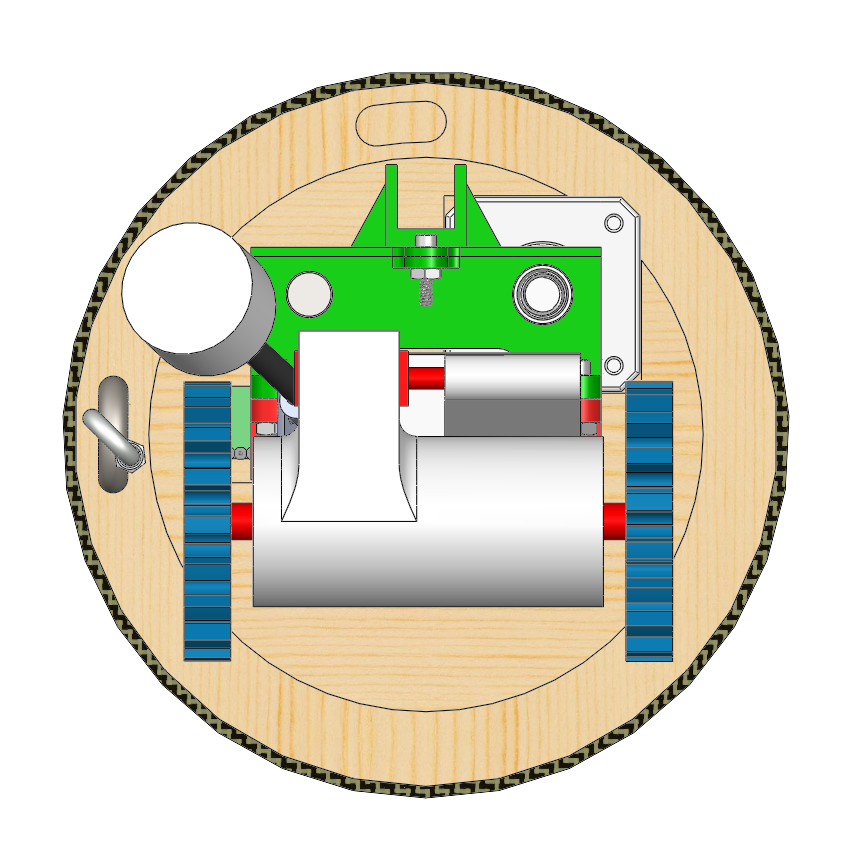
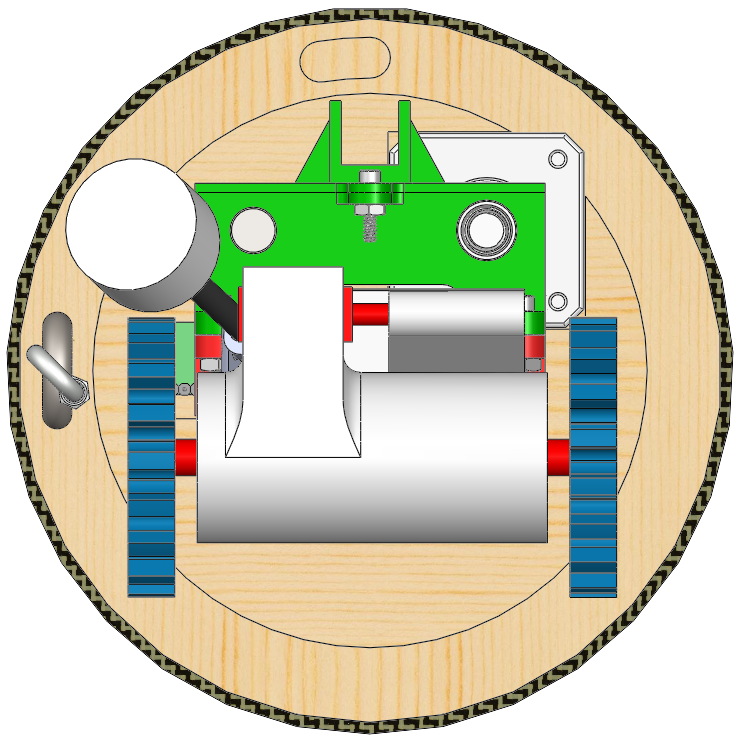
1

diff --git a/rocket_project_2020.html b/rocket_project_2020.html
@@ -93,7 +93,7 @@
 		<p>As the payloads lead, I was responsible for designing, manufacturing, and mechanically testing the payload and its associated deployment method. This meant a lot of SolidWorks, 3D printing, CNC milling and modifying commercial-off-the-shelf (COTS) components. Each dimension was iteratively modified during the R&D phase of manufacturing. As the only member of the payloads team, I spent almost all my time in the machine shop, either starting 3D prints or CNC milling wooden components.</p>
 		<div class="w3-row">
 			<div class="w3-col l12 m12 s12">
-				<img class="image-gal" style="max-width: 600px;" src="pictures/rocket20/Entire Assembly.PNG">
+				<img class="image-gal" style="max-width: 550px;" src="pictures/rocket20/Entire Assembly.PNG">
 			</div>	
 		</div>
 		<p>The payload design features two functional components:</p>
@@ -105,14 +105,14 @@
 		<h3>Rover Ejection Assembly (REA)</h3>
 		<div class="w3-row">
 			<div class="w3-col l12 m12 s12">
-				<img class="image-gal" style="max-width: 700px;" src="pictures/rocket20/Ejection System Assembly.PNG">
+				<img class="image-gal" style="max-width: 650px;" src="pictures/rocket20/Ejection System Assembly.PNG">
 			</div>	
 		</div>
 		<p>Using the above figure as reference, the leftmost stepper motor (1) is attached to a bulkhead (3) using epoxy. This stepper motor connects to the entire assembly to rotate the payload. Attaching the motor to the entire assembly makes the motor a load bearing component. A large moment will be induced on the stepper motor from the protruding rods and payload resting on the rods. To prevent this, an additional aluminum alloy bearing ring (4) will be used. The bearing ring will support the entire assembly so that the leftmost stepper motor will only rotate the assembly, not support it. All load bearing forces will be applied to the bearing ring. Since the purchased bearing ring is flat, additional 3D printed rings (2 & 6) are placed to offset one rotating ring from the other. These standoff rings interface with the bearing ring and the bulkhead or circular block holder (7). A circular tube (5) will fit around the shaft of the stepper motor and will be epoxied into the large circular block holder (7). The circular block holder acts as a rotating bulkhead for which to attach the rods and additional stepper motor onto. Cutouts for another stepper motor, a gyroscope/accelerometer module, and a steel rod are provided. The unthreaded rod (9) and stepper motor (1) will be epoxied into the designated hole inside the circular block holder. In order to attach the lead screw (10) onto the stepper motor, a 5mm to 10mm coupling (9) will be used. The coupling allows two shafts of different diameters to be attached by adjusting the force applied on each using screws. Both the lead screw and unthreaded rod are ⅜" in diameter to provide enough rigidity to support the weight of the payload.</p>
 		<p>A unique aspect of the rover deployment mechanism is the circular block holder (7). Dimensions of each cut were dictated by the size of the stepper motor, interference with the eyebolt attached to the bulkhead, and size constraints imposed by the rover ebay. A concern with the shape of the circular block holder was its thin wall size for housing the stepper motor compromising the overall strength of the retention system and how protrusion of the stepper motor outside the boundary of the circular block holder outer diameter clashes with the eyebolt if driven the wrong way. The following figure demonstrates the reasoning for the circular block holder.</p>
 		<div class="w3-row">
 			<div class="w3-col l12 m12 s12">
-				<img class="image-gal" style="max-width: 500px;" src="pictures/rocket20/Rotation Part.png">
+				<img class="image-gal" style="max-width: 400px;" src="pictures/rocket20/Rotation Part.png">
 			</div>	
 		</div>
 		<p>The diameter of the circular block holder allots space for the leftmost eyebolt (which is used for the launch vehicle's parachute), however, this means part of the stepper motor is exposed. If rotated counterclockwise, the stepper motor will interfere with the eyebolt, which jeopardizes the deployment mechanism’s ability to orient the rover. Moving the motor and shaft towards the center would mitigate this problem, but would limit the space available for electronics onboard the rover.</p>
@@ -120,16 +120,16 @@
 		<h3>Rover</h3>
 		<div class="w3-row">
 			<div class="w3-col l6 m6 s12">
-				<img class="image-gal" style="max-width: 700px;" src="pictures/rocket20/Rover Assembly 1.PNG">
+				<img class="image-gal" src="pictures/rocket20/Rover Assembly 1.PNG">
 			</div>
 			<div class="w3-col l6 m6 s12">
-				<img class="image-gal" style="max-width: 700px;" src="pictures/rocket20/Rover Assembly 2.PNG">
+				<img class="image-gal" src="pictures/rocket20/Rover Assembly 2.PNG">
 			</div>
 		</div>
 		<p>The payload features a 11.4" x 4.3" x 4.2" rover with a collapsible collection arm and antenna for storage within the launch vehicle. A 2.3" x 1.9" x 0.4" (~28.6mL) storage area within the chassis of the rover will store simulated lunar ice samples. The same collection arm doubles as a cap for the collection bin to ensure collected samples are retained within the rover during transportation. A separate 2.4" x 3.0" x 4.0" compartmentalized section, located on the back side of the rover, is dedicated to housing all onboard electronics. A requirement in the USLI handbook states that all lithium polymer batteries must be sufficiently protected and marked as flammable. To satisfy this requirement, the single lithium polymer battery powering onboard electronics is located in a separate, bright red compartment within the electronics bay. All other electronics are placed on the top half of the electronics bay for easier access to electronics. Both compartments and lid are fastened to each other using 6-32 nuts and bolts. The bottom red compartment of the ebay is attached to the chassis using epoxy. The contact area between the chassis and the bottom ebay compartment is maximized to increase the amount of epoxy applied between the two parts. The rover uses wheels instead of treads as its form of movement. While this limits the rover’s ability to overcome obstacles located under its center, the driver will take extra precaution in avoiding obstacles.</p>
 		<div class="w3-row">
 			<div class="w3-col l12 m12 s12">
-				<img class="image-gal" style="max-width: 700px;" src="pictures/rocket20/Rover Assembly 1.PNG">
+				<img class="image-gal" style="max-width: 600px;" src="pictures/rocket20/Rover Exploded.JPG">
 			</div>
 		</div>
 		<p>A crucial component for deploying the rover and managing electronics onboard the rover is the electronics bay (7 & 8). Since the electronics bay interfaces with the deployment mechanism’s rods, the electronics bay must support the weight of the rover and landing impact forces while stored within the launch vehicle. A custom printed female threaded rod (10) interfaces with the threaded rod of the REA. A small camera is mounted on top of the payload on component (9) for video feedback. Additional design considerations were utilized for all components but will be omitted for brevity.</p>
@@ -141,7 +141,25 @@
 			<li>Rover</li>
 			<li>Altimeters & GPS</li>
 		</ol>
+
 		<h3>REA</h3>
+		<div class="diagram">
+	    <div class="raw-data-client">
+	        <h4>Raw Data (client-side)</h4>
+	        <p>Arrays with plain JavaScript objects.</p>
+	    </div>
+	    <div class="pivot-engine component">
+	        <h4>PivotEngine</h4>
+	        <p>Summarizes the raw data according to views defined by fields and field list (row, column, filter, and value lists).</p>
+	    </div>
+	    <!-- connectors -->
+	    <div class="conn row-2 col-4"> <!-- client data => engine -->
+	      <svg viewBox="0 0 10 10">
+	        <path d="M5 10 L1 5 L4 5 L4 -9 L6 -9 L6 5 L9 5z"/>
+	      </svg>
+	    </div>
+	  </div>
+
 		<h3>Rover</h3>
 		<h3>Altimeters & GPS</h3>
 		<h2>Locking Mechanism</h2>

diff --git a/w3.css b/w3.css
@@ -205,12 +205,69 @@ body, html {
 }
 
 
+/*Block Diagram*/
+.diagram {
+    display: grid;
+    grid-template-columns: repeat(14, 1fr);
+    align-items: start;
+    justify-items: center;
+    max-width: 7in;
+    margin: .2in 0;
+}
+.diagram > div {
+  padding: 12px;
+  background: #EEE;
+  border: 1px solid #C0C0C0;
+}
+.diagram > .component {
+  border-radius: 12px;
+  background: #E6E0FF;
+  border: 2px solid #8E8EFF;
+}
+.raw-data-client {
+  grid-column: 1/span 5;
+  grid-row: 1;
+}
+.pivot-engine {
+  grid-column: 4/span 5;
+  grid-row: 3;
+}
+.row-2 {
+  grid-row: 2;
+}
+.row-3 {
+  grid-row: 3;
+}
+.col-4 {
+  grid-column: 4;
+}
+.col-8 {
+  grid-column: 8;
+}
+.diagram .conn {
+  position: relative;
+  width: .5in;
+  height: .5in;
+  padding: 0;
+  border: none;
+  background: transparent;
+  z-index: -1;
+}
+.diagram .conn svg {
+  position: absolute;
+  width: 100%;
+  height: 100%;
+  overflow: visible;
+  fill: #E6E0FF;
+}
+
+
+
+
 /*Model Stuff*/
 model-viewer {
   width: 100%;
 }
-
-
 
 
 .collapsible {
